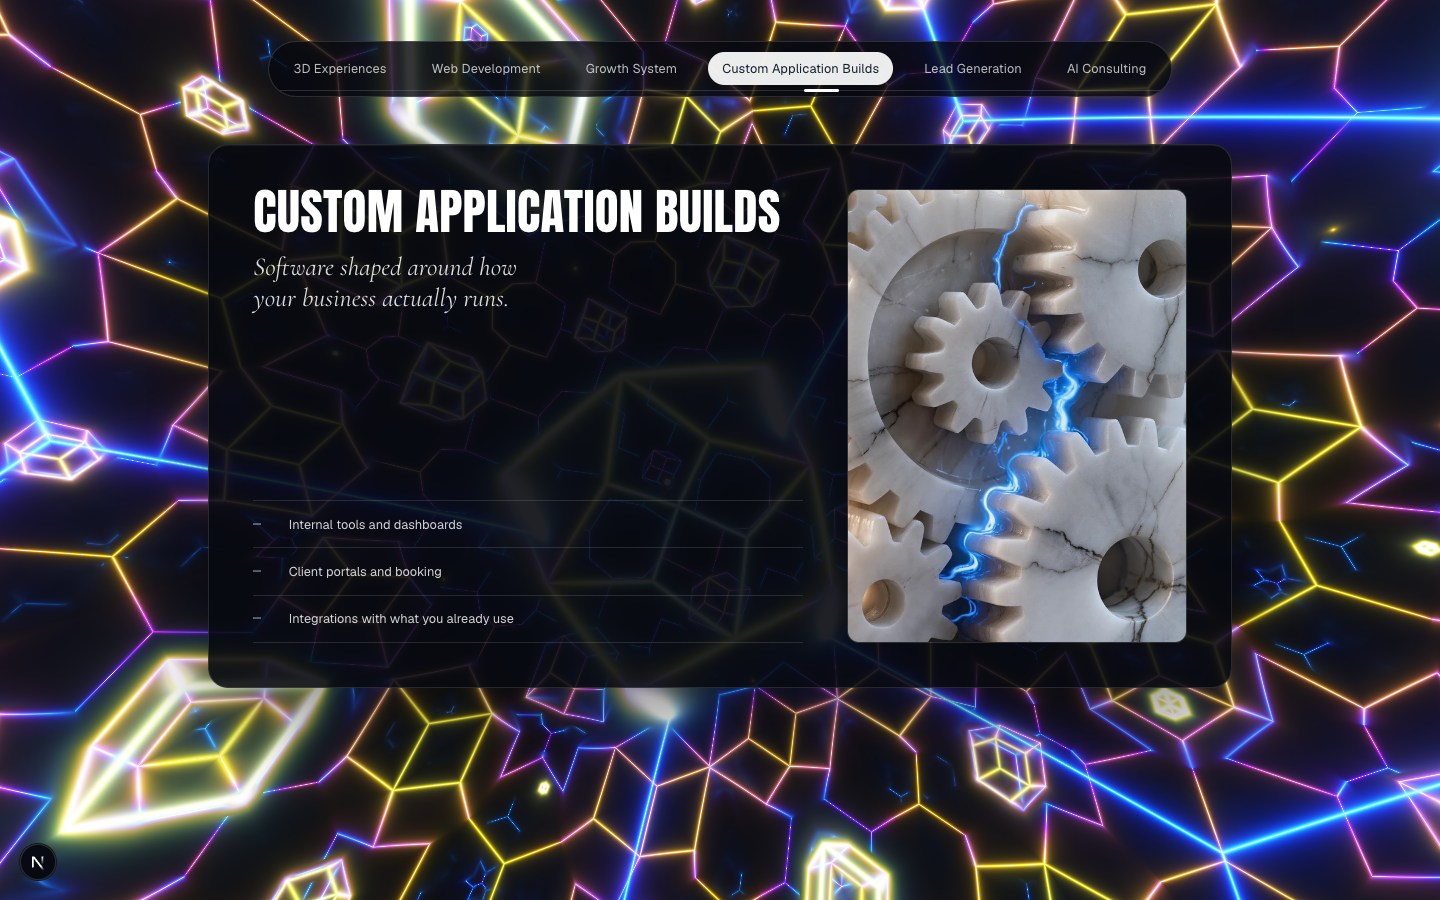
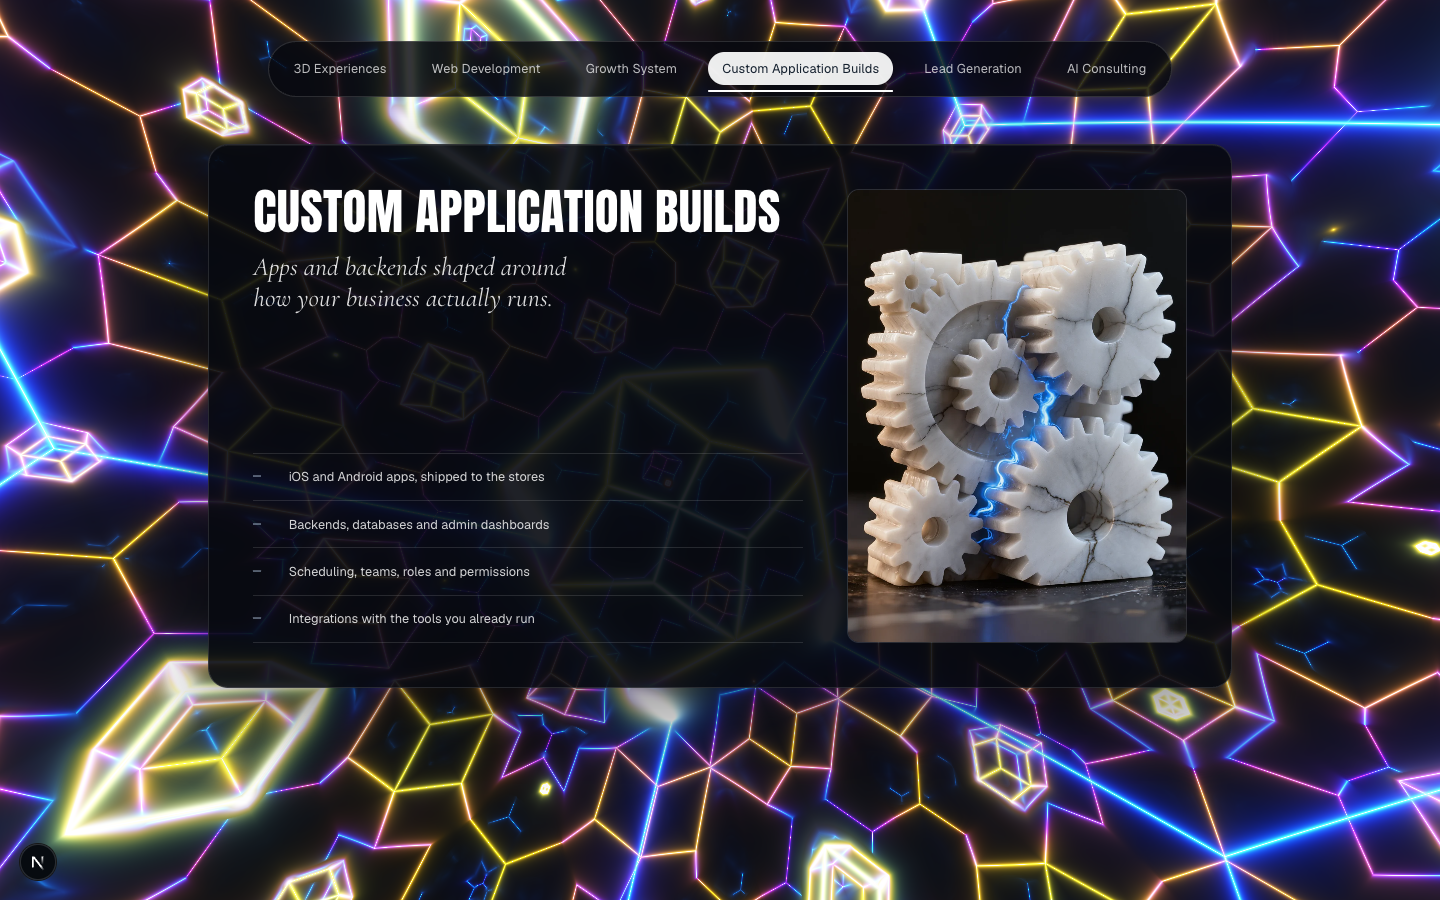
Growth System tidied to four points, Custom Application Builds copy from the UCL build, tab marker sits under the active tab and slides between
Claude-Session: https://claude.ai/code/session_01NAdPXLUXCGhh82qBsMYyAh

diff --git a/src/hero/ServiceTabs.tsx b/src/hero/ServiceTabs.tsx
@@ -1,5 +1,5 @@
 "use client";
-import { useEffect, useState } from "react";
+import { useEffect, useRef, useState } from "react";
 import { SERVICES, SECTION_HEADING } from "@/portal/services";
 import { onProgress, progress, scrollControl } from "./progress";
 import { HERO_FRACTION, Q, remap } from "./beats";
@@ -18,11 +18,22 @@ function activeIndex(q: number): number {
   return best;
 }
 
+/** continuous position along the tabs: 0 at the first card, 5 at the last, fractional while travelling */
+function tabPosition(q: number): number {
+  const x = railX(remap(q, Q.truck[0], Q.truck[1]));
+  for (let i = 0; i < CARDS.length - 1; i++) {
+    const a = CARDS[i].x, b = CARDS[i + 1].x;
+    if (x <= b) return i + Math.min(1, Math.max(0, (x - a) / (b - a)));
+  }
+  return CARDS.length - 1;
+}
+
 export function ServiceTabs() {
   const [active, setActive] = useState(-1);
   const [visible, setVisible] = useState(false);
   const [heading, setHeading] = useState(false);
-  const [rail, setRail] = useState(0);
+  const tabRefs = useRef<(HTMLButtonElement | null)[]>([]);
+  const marker = useRef<HTMLSpanElement>(null);
 
   useEffect(() => {
     const apply = () => {
@@ -31,8 +42,17 @@ export function ServiceTabs() {
       setVisible(inside);
       setHeading(q > Q.arrive[0] && q < Q.truck[0] - 0.005);
       setActive(q >= Q.truck[0] && q <= Q.turnBack[0] ? activeIndex(q) : -1);
-      const u = remap(q, Q.truck[0], Q.truck[1]);
-      setRail(Math.round(u * 1000) / 1000);
+      // the marker sits under the tab you are on, and slides between tabs while travelling
+      const pos = tabPosition(q);
+      const i = Math.min(CARDS.length - 2, Math.floor(pos));
+      const f = pos - i;
+      const a = tabRefs.current[i], b = tabRefs.current[i + 1], m = marker.current;
+      if (a && b && m) {
+        const left = a.offsetLeft + (b.offsetLeft - a.offsetLeft) * f;
+        const width = a.offsetWidth + (b.offsetWidth - a.offsetWidth) * f;
+        m.style.transform = `translateX(${left}px)`;
+        m.style.width = `${width}px`;
+      }
     };
     apply();
     return onProgress(apply);
@@ -43,11 +63,12 @@ export function ServiceTabs() {
   return (
     <div className={`tabs${visible ? " is-visible" : ""}`} aria-label="Services">
       <h2 className={`tabs__heading${heading ? " is-on" : ""}`}>{SECTION_HEADING}</h2>
-      <div className="tabs__bar" role="tablist" style={{ "--rail": rail } as React.CSSProperties}>
-        <span className="tabs__rail" aria-hidden="true" />
+      <div className="tabs__bar" role="tablist">
+        <span className="tabs__marker" aria-hidden="true" ref={marker} />
         {SERVICES.map((s, i) => (
           <button
             key={s.title}
+            ref={(el) => { tabRefs.current[i] = el; }}
             role="tab"
             type="button"
             className={`tabs__tab${active === i ? " is-active" : ""}`}

diff --git a/src/app/globals.css b/src/app/globals.css
@@ -438,7 +438,6 @@ footer.section {
   top: clamp(1rem, 4.5vh, 3rem);
   transform: translateX(-50%);
   display: flex;
-  --rail: 0;
   gap: calc(var(--pad) / var(--phi));
   padding: calc(var(--pad) / var(--phi) / var(--phi));
   border-radius: 999px;
@@ -451,30 +450,18 @@ footer.section {
   overflow-x: auto;
   scrollbar-width: none;
 }
-/* a hairline that travels the bar with the scroll, so you always know where you are in the six */
-.tabs__rail {
-  position: absolute;
-  left: calc(var(--pad) / var(--phi) / var(--phi));
-  right: calc(var(--pad) / var(--phi) / var(--phi));
-  bottom: 0.3rem;
-  height: 1px;
-  background: rgba(255, 255, 255, 0.14);
-  pointer-events: none;
-}
-.tabs__rail::after {
-  content: "";
+/* the marker sits under the tab you are on and slides between tabs while the scroll travels */
+.tabs__marker {
   position: absolute;
   left: 0;
-  top: -1px;
-  height: 3px;
-  width: 2.2rem;
+  bottom: 0.25rem;
+  height: 2px;
+  width: 0;
   border-radius: 2px;
   background: white;
-  transform: translateX(calc(var(--rail) * (100% * 1)));
-  /* travel across the rail's width minus the marker's own width */
-  left: calc(var(--rail) * (100% - 2.2rem));
-  transform: none;
-  transition: left 120ms linear;
+  transform: translateX(0);
+  transition: transform 140ms linear, width 140ms linear;
+  pointer-events: none;
 }
 .tabs__tab {
   appearance: none;

diff --git a/src/portal/services.ts b/src/portal/services.ts
@@ -20,15 +20,15 @@ export const SERVICES: Service[] = [
     title: "Growth System",
     image: "/images/services/growth.webp",
     alt: "A row of marble columns rising like a chart, the tallest lit",
-    lead: "The site, plus the engine that sends people to it, reported every month.",
-    points: ["Landing pages that convert", "Paid ads on Meta and Google", "Search that compounds over time", "Creative made for performance", "A monthly report and a call"],
+    lead: "The site, plus the engine that sends people to it.",
+    points: ["Landing pages that convert", "Paid ads on Meta and Google", "Search that compounds over time", "Monthly reports"],
   },
   {
     title: "Custom Application Builds",
     image: "/images/services/apps.webp",
     alt: "Marble gears meshing, lit from within",
-    lead: "Software shaped around how your business actually runs.",
-    points: ["Internal tools and dashboards", "Client portals and booking", "Integrations with what you already use"],
+    lead: "Apps and backends shaped around how your business actually runs.",
+    points: ["iOS and Android apps, shipped to the stores", "Backends, databases and admin dashboards", "Scheduling, teams, roles and permissions", "Integrations with the tools you already run"],
   },
   {
     title: "Lead Generation",
